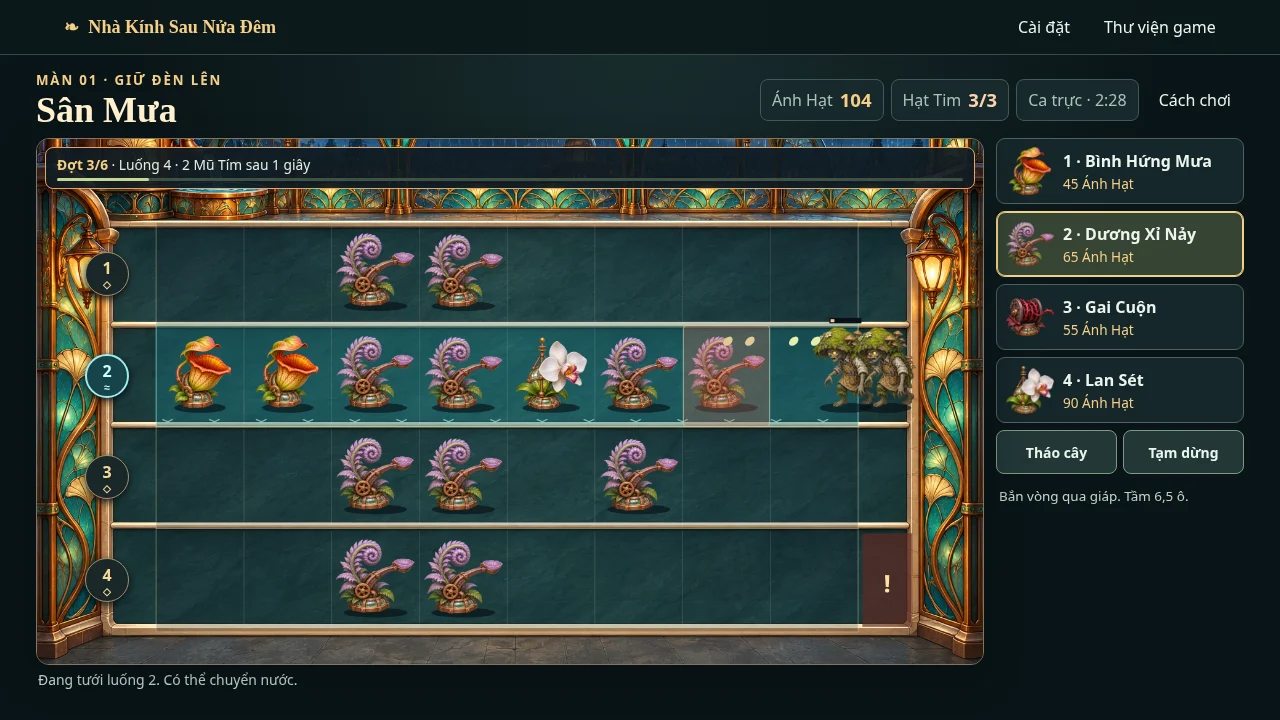
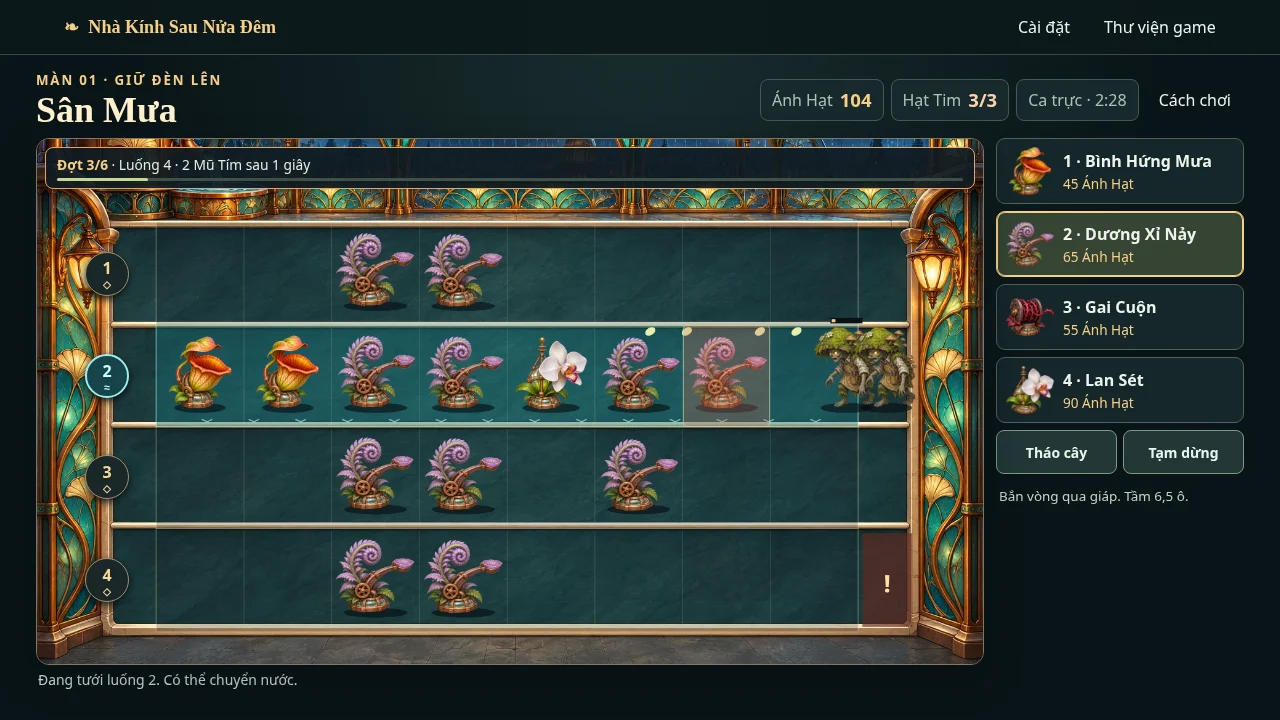
Attach exact candidate captures and passing catalog preflight

diff --git a/games/midnight-greenhouse/reports/QA_REPORT.md b/games/midnight-greenhouse/reports/QA_REPORT.md
@@ -26,7 +26,7 @@ State at handoff: this is a production pack. Static verification passed for 35 l
 
 - Runtime candidate [`5b34762f240f93e8b1b4892fd116430d9e7e3dea`](https://github.com/huynhngocsonuit2000github/ai-game-studio/commit/5b34762f240f93e8b1b4892fd116430d9e7e3dea). Draft [PR #35](https://github.com/huynhngocsonuit2000github/ai-game-studio/pull/35). The runtime build contains 32 files, totaling 1,344,085 bytes before HTTP compression. The standalone playtest ZIP came to 1,251,672 bytes in local packaging.
 - Node 24.22.3, pnpm 11.25.0, Playwright 1.65.1 and Debian Chromium 156.0.8078.79. Desktop 1280×720, Chromium touch emulation 844×390 and portrait rotation 390×844. Production files served over HTTP in the real project subpath. The six authored waves have no random seed. Browser play used actual card, tile and valve inputs and the ordinary 30 Hz simulation at normal speed.
-- Visual evidence from the runtime layout at `b03624ebfdaa2ac1f955ae695ca2f5978777d236`. The runtime candidate also shortened the preparation forecast label and repaired delayed combat audio. [Desktop wave 3](screenshots/s03-raincourt-desktop.webp) · [Touch wave 3](screenshots/s03-raincourt-touch.webp) · [Defeat](screenshots/s03-raincourt-defeat.webp).
+- Visual evidence and both complete normal-speed routes are from the exact runtime candidate above. The input recordings repeated the original routes after the compact forecast and delayed-audio repairs. [Desktop wave 3](screenshots/s03-raincourt-desktop.webp) · [Touch wave 3](screenshots/s03-raincourt-touch.webp) · [Defeat](screenshots/s03-raincourt-defeat.webp).
 
 | Check | Result | Observed evidence |
 | --- | --- | --- |
@@ -38,10 +38,10 @@ State at handoff: this is a production pack. Static verification passed for 35 l
 | Q06 | PASS | Desktop keyboard selection, arrow traversal and Enter placement. Compact touch placement, removal, both outer valves and ≥44 px valve controls. The forecast clears the board. Portrait rotate hint, focus and reduced-motion settings checked. Physical devices and assistive technology are pending. |
 | Q07 | PASS | No-defense route lost after the third breach, then retry restored 150 Ánh Hạt, three core HP, a dry board and preparation. Explicit pause tested. Visibility change also exercised by synthetic browser event. Real tab switching awaits device playtest. |
 | Q08 | PASS | Reviewed the supplied sprites in motion at desktop and compact sizes. Iterated on forecast placement to clear the top aisle and preserve the bottom valve. Captures show active wave, health/stock/wet status, physical projectiles and a lane entrance warning. |
-| Q09 technical | PASS | A strict-autoplay check found that the initial HTMLAudio implementation could suppress delayed clips. Replaced it with gesture-unlocked Web Audio. Rain, watch music and an Orchid shock advanced on the running audio clock. Pause suspended the context and the mute toggle zeroed master gain. Per-cue cooldown and an eight-voice bound are implemented. Human listening and loop continuity are NOT_RUN. |
+| Q09 technical | PASS | A strict-autoplay check found that the initial HTMLAudio implementation could suppress delayed clips. Replaced it with gesture-unlocked Web Audio. Rain, watch music and an Orchid shock advanced on the running audio clock. Pause suspended the context and the mute toggle zeroed master gain. Both exact-candidate runs exercised the attack, warning, reroute and victory sources with zero browser errors, and the loss route exercised breach and defeat. Human listening and loop continuity are NOT_RUN. |
 | Q12–Q13 S03 slice | PASS | Reload returned to campaign and retained the winning record. Audio and motion toggles persisted. Later stage unlocks and full save hardening are S04. |
 | Q14 S03 | PASS | Collector-first desktop and two-Fern-first touch routes cleared at normal speed. No-defense route was a reproducible loss. See timings below. First-run campaign duration and unaided play are pending. |
-| Q16 S03 | PASS | Used the trusted workflow's temporary catalog and the assembled Pages artifact. Canonical release manifest excluded this game. The playable ZIP excludes source sheets, concept art and designed S04 content. |
+| Q16 S03 | PASS | Trusted catalog preflight exited 0 on the exact runtime candidate. All 36 browser checks passed across the temporary assembled site and its games. The canonical release manifest excluded this game. The playable ZIP excludes source sheets, concept art and designed S04 content. |
 | Q10–Q11, Q12–Q16 campaign | NOT_RUN | Blocked by the S04–S05 dependency on Producer G2; both later arenas are designed and scoped. |
 | Q17 | BLOCKED | Pages publication and G4 are separate Producer decisions. |
 

diff --git a/games/midnight-greenhouse/production/PROGRESS.md b/games/midnight-greenhouse/production/PROGRESS.md
@@ -22,7 +22,7 @@ PASS at desktop and touch-emulated minimum landscape viewports. Used the supplie
 
 Two different openings cleared all six waves at normal speed with 3/3 Hạt Tim. Collector-first took 7:09.867 of combat with two stars. Two-Fern-first took 7:13.400 with three stars and a three-target wet Orchid chain. The no-defense run defeated the core and a normal Retry reset all transient gameplay. Browser reload retained the winning record and audio/motion settings. The packaged score, rain and delayed Orchid cue advanced with strict autoplay after a user gesture. The Web Audio repair is covered by the new browser regression test. Human audio and balance acceptance are pending. The original tuning is retained. Both clears could accumulate sizable stock after establishing several Ferns and collectors.
 
-Targeted browser tests passed under the Pages project subpath via temporary catalog launch and direct entry with a portal return. The packaging path produced and verified a 1.19 MiB standalone ZIP and records the exact candidate and tested checkout inside. The canonical release artifact excludes the game. There are no tracked shared, lockfile, registry, workflow or sibling-game changes. See [QA evidence](../reports/QA_REPORT.md#sân-mưa-candidate) for report and commands.
+The exact-candidate trusted catalog preflight passed all 36 browser checks under the Pages project subpath, including temporary catalog launch, direct entry and portal return. The final scope check passed against refreshed main at `3d4624d018a4b69ec47a74bb042c887376b25e84`. The intervening change was confined to Monster Survivor. The packaging path produced and verified a 1.19 MiB standalone ZIP and records the exact candidate and tested checkout inside. The canonical release artifact excludes the game. There are no tracked shared, lockfile, registry, workflow or sibling-game changes. See [QA evidence](../reports/QA_REPORT.md#sân-mưa-candidate) for report and commands.
 
 Remaining G2 device evidence includes real mobile, Firefox/Safari, real tab switch and listening for loop transitions. Full campaign timing, progression, pump closures, boss phases/locks and late-game performance wait for S04–S05. Pages registration, live publication and G4 require separate approval. No live deployment claim.
 
